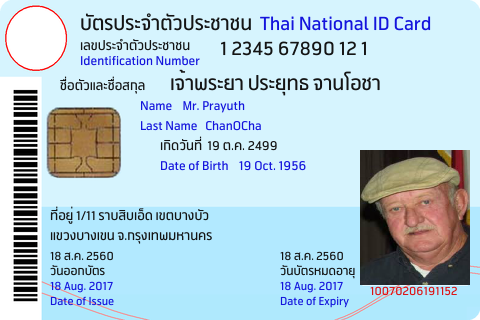
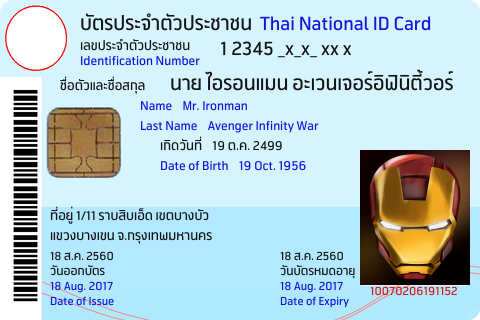
ignore

diff --git a/main.go b/main.go
@@ -48,13 +48,13 @@ func main() {
 
 		addLabel(cimg, 80, 50, "เลขประจำตัวประชาชน", colBlk, 12)
 		addLabel(cimg, 80, 65, "Identification Number", colBlue, 12)
-		addLabel(cimg, 220, 55, "1 2345 67890 12 1", colBlk, 18)
+		addLabel(cimg, 220, 55, "1 2345 _x_x_ xx x", colBlk, 18)
 		addLabel(cimg, 60, 90, "ชื่อตัวและชื่อสกุล", colBlk, 12)
-		addLabel(cimg, 170, 90, "เจ้าพระยา ประยุทธ จานโอชา", colBlk, 18)
+		addLabel(cimg, 170, 90, "นาย ไอรอนแมน อะเวนเจอร์อิฟินิตี้วอร์", colBlk, 18)
 
-		addLabel(cimg, 140, 110, "Name    Mr. Prayuth", colBlue, 12)
-		addLabel(cimg, 140, 130, "Last Name   ChanOCha", colBlue, 12)
-		addLabel(cimg, 160, 150, "เกิดวันที่  19 ต.ค. 2499", colBlk, 12)
+		addLabel(cimg, 140, 110, "Name    Mr. Ironman", colBlue, 12)
+		addLabel(cimg, 140, 130, "Last Name    Avenger Infinity War", colBlue, 12)
+		addLabel(cimg, 160, 150, "เกิดวันที่    19 ต.ค. 2499", colBlk, 12)
 		addLabel(cimg, 160, 170, "Date of Birth    19 Oct. 1956", colBlue, 12)
 
 		addLabel(cimg, 50, 220, "ที่อยู่ 1/11 ราบสิบเอ็ด เขตบางบัว", colBlk, 12)
@@ -113,7 +113,7 @@ func fontface(size float64) font.Face {
 }
 
 func mix(background image.Image) image.Image {
-	image2, err := os.Open("images.jpeg")
+	image2, err := os.Open("ironman.jpg")
 	if err != nil {
 		log.Fatalf("failed to open: %s", err)
 	}
